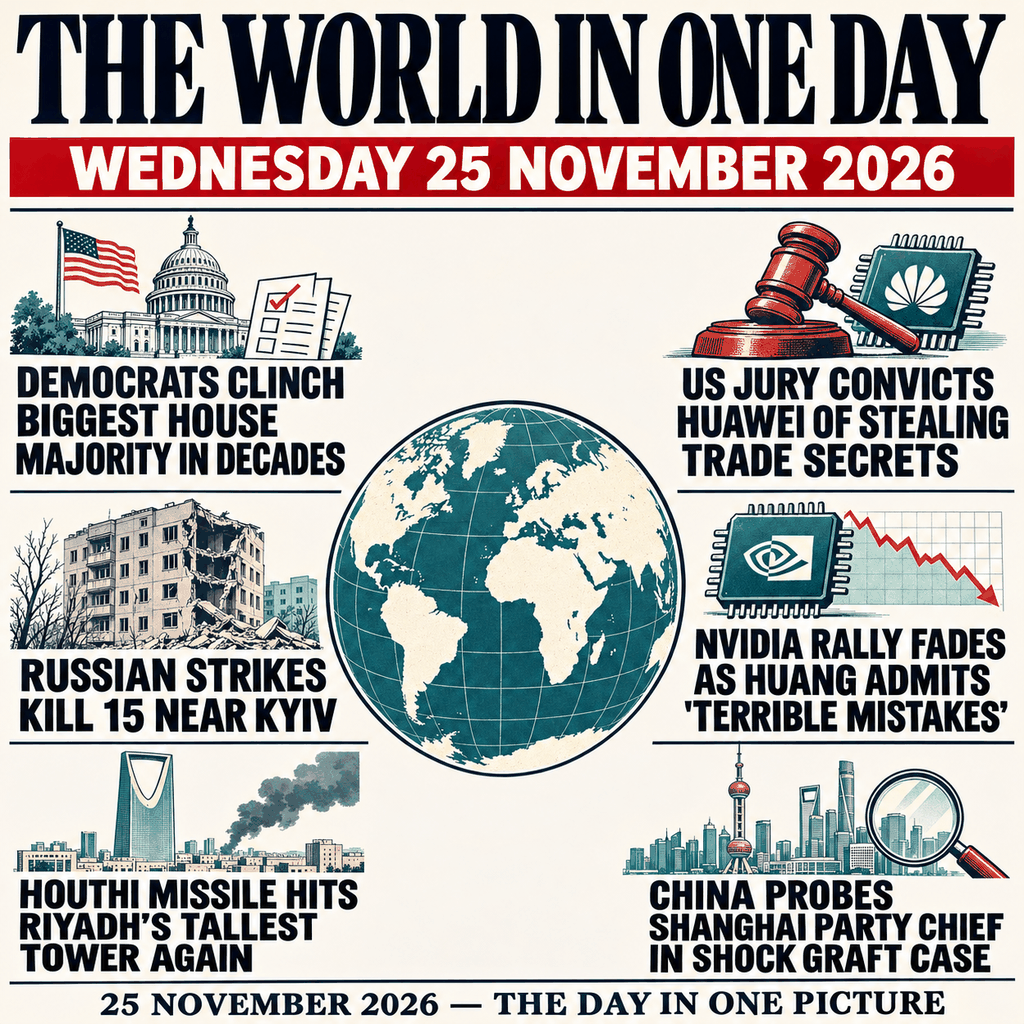
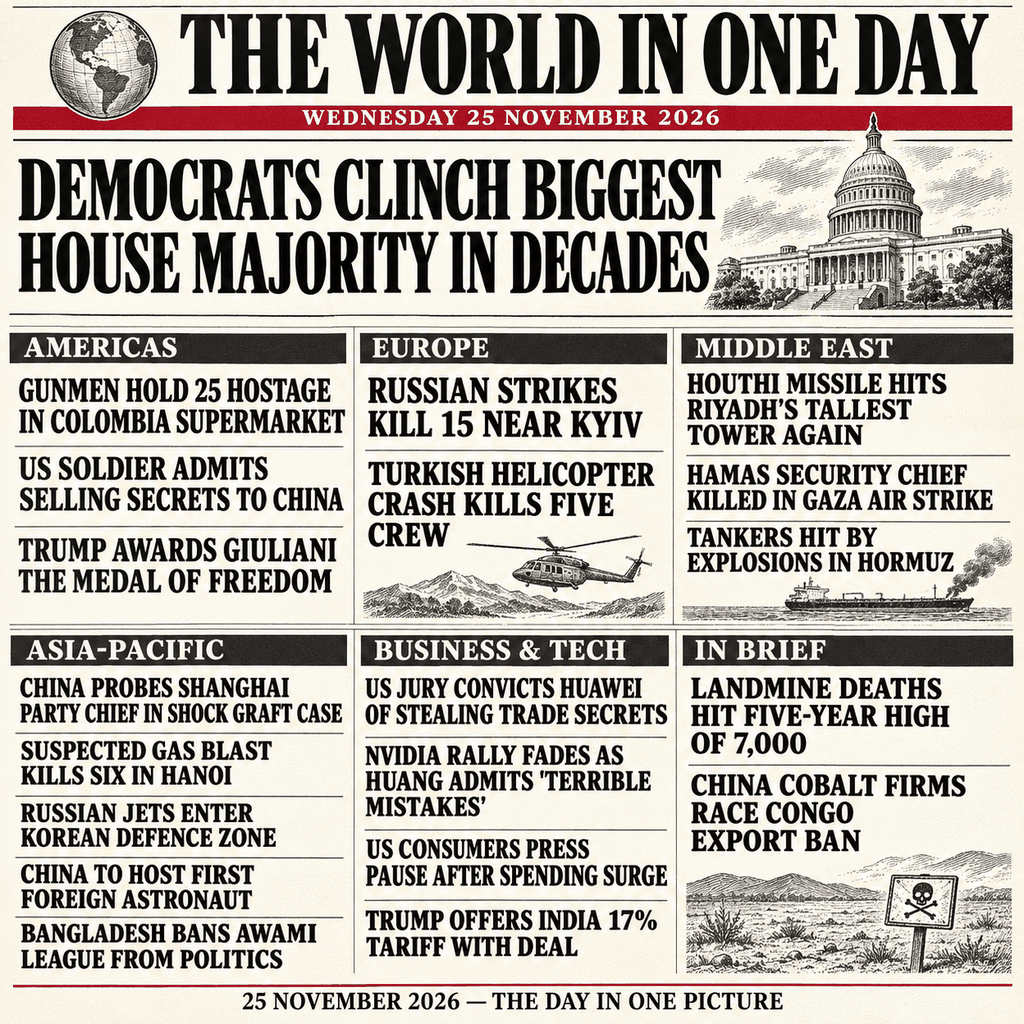
Add files via upload

diff --git a/main.py b/main.py
@@ -1,29 +1,31 @@
-import hashlib
-import os
-import shutil
-import tempfile
+from hashlib import file_digest
+from os import environ
 from pathlib import Path
+from shutil import copyfile
+from tempfile import TemporaryDirectory
+
+
+def sha256(path: Path) -> bytes:
+    with path.open("rb") as image:
+        return file_digest(image, "sha256").digest()
 
 
 def main() -> None:
     source = Path(__file__).resolve().with_name("entry.png")
-    output_dir = Path(os.environ.get("MAKEFUN_OUTPUT_DIR", "/output"))
+    output_dir = Path(environ.get("MAKEFUN_OUTPUT_DIR", "/output"))
     output_dir.mkdir(parents=True, exist_ok=True)
     destination = output_dir / "entry.png"
+    source_digest = sha256(source)
 
-    with tempfile.TemporaryDirectory(dir=output_dir, prefix=".entry-") as staging_dir:
-        staged = Path(staging_dir) / "entry.png"
-        shutil.copyfile(source, staged)
-        with source.open("rb") as original, staged.open("rb") as copied:
-            expected = hashlib.file_digest(original, "sha256").digest()
-            actual = hashlib.file_digest(copied, "sha256").digest()
-        if actual != expected:
-            raise RuntimeError("SHA-256 mismatch while copying entry.png")
+    with TemporaryDirectory(dir=output_dir) as staging_dir:
+        copied_image = Path(staging_dir) / destination.name
+        copyfile(source, copied_image)
+        if sha256(copied_image) != source_digest:
+            raise RuntimeError(f"SHA-256 mismatch while copying {source} to {destination}")
+        byte_count = copied_image.stat().st_size
+        copied_image.replace(destination)
 
-        byte_count = staged.stat().st_size
-        staged.replace(destination)
-
-    print(f"Copied and verified {byte_count} bytes to {destination}")
+    print(f"Verified {destination} ({byte_count} bytes)")
 
 
 if __name__ == "__main__":
